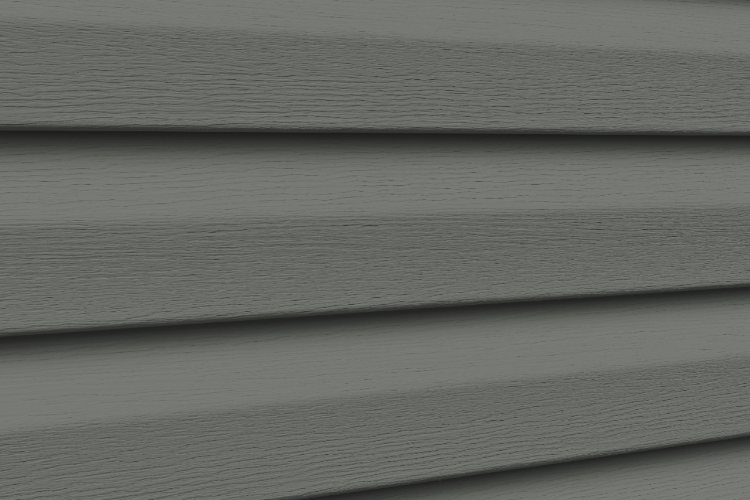
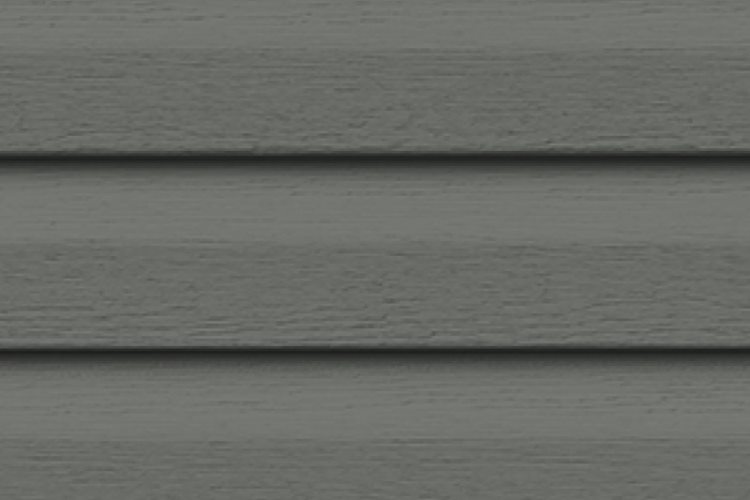
Selections: Exterior Portfolio siding colours shown on double 4 Dutch lap

diff --git a/selections.html b/selections.html
@@ -732,7 +732,7 @@ function patioChoices(bt, list){
 const PHOTO_SETS = {
   '171': { dir: 'siding', groups: [
     { brand: 'CertainTeed', code: 'ct', names: ['Charcoal Gray', 'Colonial White', 'Cypress', 'Flagstone', 'Forest', 'Graystone', 'Natural Clay', 'Pacific Blue', 'Seagrass', 'Spruce'], photos: true },
-    { brand: 'Exterior Portfolio', code: 'ep', note: 'colors shown from the Exterior Portfolio color chart', names: ['Almost Midnight', 'Aspen White', 'Bone', 'Canyon', 'Carbon', 'Clay', 'Country Beige', 'Cypress', 'Driftwood', 'Espresso', 'Graphite',
+    { brand: 'Exterior Portfolio', code: 'ep', note: 'shown on double 4" Dutch lap · colors from the Exterior Portfolio color chart', names: ['Almost Midnight', 'Aspen White', 'Bone', 'Canyon', 'Carbon', 'Clay', 'Country Beige', 'Cypress', 'Driftwood', 'Espresso', 'Graphite',
       'Greystone', 'Indigo', 'Lighthouse Red', 'Metropolitan Gray', 'Mocha', 'Nantucket', 'Oceanside', 'Pearl', 'Polaris', 'Regatta', 'Rye', 'Saddle', 'Slate',
       'Smoky Ash', 'Spruce', 'Stone Harbor', 'Wheat'], photos: true },   // the office's white EP photo tinted to each colour's code from westlakeroyalbuildingproducts.com (2026-10-27)
   ] },
